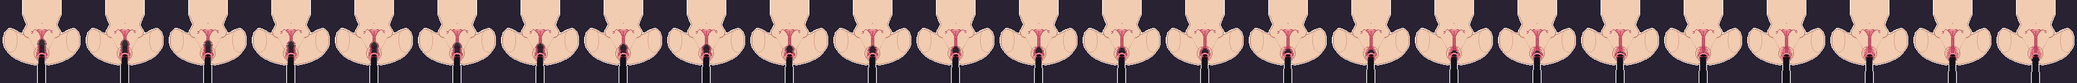
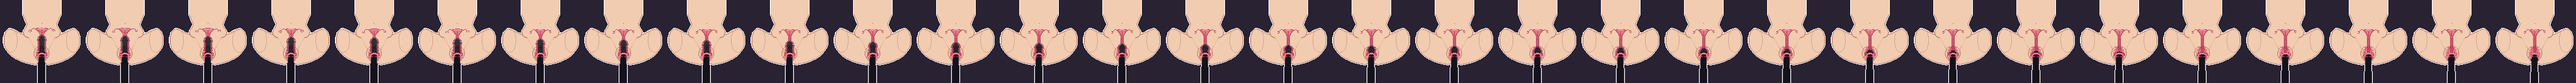
test_bodyM 插入：頂到子宮頸再往裡推 6 格，子宮被頂上去壓扁變形（頸變短變寬、漏斗變矮變寬）；插入圖片條延到龜頭頂 54；sw CACHE v563
Claude-Session: https://claude.ai/code/session_01FDQv7dynifChN3xttDZyvc

diff --git a/web/content/test_bodyM_rub.js b/web/content/test_bodyM_rub.js
@@ -14,7 +14,7 @@ const CONTACT_BELOW = 95.5;           // 龜頭頂高於這列＝碰到陰唇
 const RUB_DIST = 8;                   // 碰著陰唇時累積移動幾格算一下摩擦（不用換方向、不用離開；小幅度來回也算）
 const RUBS_TO_OPEN = 4;               // 摩擦幾下陰唇打開
 const PEN_HALF_W = 7;                 // 按得到陰莖的半寬（128 格）
-const INS0 = 60, INS1 = 84;           // 插入圖片條：龜頭頂 60（頂到子宮頸）～84（剛進肉穴口）
+const INS0 = 54, INS1 = 84;           // 插入圖片條：龜頭頂 54（頂到子宮頸再往裡推 6 格，子宮被壓扁）～84（剛進肉穴口）
 const AT_HOLE = 85;                   // 打開後龜頭拉到這列以下＝頂在肉穴口（對準了），往上推才插進去
 const OPEN_STEP_MS = 110;             // 打開過渡：每一格停多久（閉合 → 打開一點 → 打開大半 → 全開）
 
@@ -125,7 +125,7 @@ section.querySelector("#rub-reset").addEventListener("click", () => {
   draw();
 });
 
-Promise.all(["rub_closed", "rub_open_a35", "rub_open_a70", "rub_open", "rub_insert"].map((n) => load(`/test_bodyM/${n}.png?v=6`)))
+Promise.all(["rub_closed", "rub_open_a35", "rub_open_a70", "rub_open", "rub_insert"].map((n) => load(`/test_bodyM/${n}.png?v=7`)))
   .then(([closed, a35, a70, open, insert]) => { sheets = { closed, a35, a70, open, insert }; draw(); })
   .catch((e) => { info.textContent = e.message; console.error(e); });
 

diff --git a/web/sw.js b/web/sw.js
@@ -1,7 +1,7 @@
 // 網路優先、離線才退回快取;/api/ 不攔(存檔永遠即時)。
 // 重點:向伺服器要「完整回應」(no-store 的新 Request,不帶條件標頭),
 // 避免拿到空的 304 就丟給頁面 → 造成 app.js/模組載入到空內容而整個炸掉。
-const CACHE = "yorozuya-v562";
+const CACHE = "yorozuya-v563";
 const VISIT = "yoro-visit-pics";
 
 self.addEventListener("install", () => self.skipWaiting());

diff --git a/web/test_bodyM/index.html b/web/test_bodyM/index.html
@@ -137,6 +137,6 @@
 <script src="/content/room_doll.js?v=20"></script>
 <script type="module" src="/content/test_bodyM.js?v=7"></script>
 <script type="module" src="/content/test_bodyM_peek.js?v=9"></script>
-<script type="module" src="/content/test_bodyM_rub.js?v=7"></script>
+<script type="module" src="/content/test_bodyM_rub.js?v=8"></script>
 </body>
 </html>

diff --git a/tools/droom_groin/trace128.py b/tools/droom_groin/trace128.py
@@ -619,8 +619,10 @@ def xray_section(im):
     WALL, CAV, RIM, OVA = (236, 112, 140), (196, 52, 86), (172, 52, 82), (246, 176, 186)
     CX = MIDX + .5
     # ---- 子宮（漏斗）----
-    F_TOP, F_BOT, F_W, NECK_W = 47.0, 56.0, 8.2, 2.4          # 子宮底、漏斗底、上寬、頸寬
-    CERV_BOT = 60.0                                          # 子宮頸伸到陰道頂
+    # 龜頭頂到子宮頸後再往裡推：子宮被往裡頂、壓扁變形（子宮頸跟著龜頭往裡、變短變寬；漏斗變矮、兩邊鼓；子宮底只退一點）
+    push = max(0.0, 60.0 - PEN_TIP) if (INSERT > .05 and PENIS in PEN_COLORS) else 0.0
+    F_TOP, F_BOT, F_W, NECK_W = 47.0 - .35 * push, 56.0 - .85 * push, 8.2 + .4 * push, 2.4 + .3 * push   # 子宮底、漏斗底、上寬、頸寬
+    CERV_BOT = 60.0 - push                                   # 子宮頸伸到陰道頂（被龜頭頂著走）
     def uw(y):
         if y < F_TOP: return 0
         if y <= F_BOT:
@@ -642,7 +644,7 @@ def xray_section(im):
     for (x, y) in pixel_perfect(stroke([(MIDX, F_TOP + 1.5), (MIDX, CERV_BOT)])): blend(x, y, CAV, .9)   # 頸管
     for d in (-1, 1):                                          # 子宮腔：倒三角的兩邊
         for (x, y) in pixel_perfect(stroke([(CX + d * (F_W - 3), F_TOP + 1), (CX + d * .4, F_BOT - .5)])): blend(x, y, CAV, .8)
-    for d, oy in ((-1, 50.0), (1, 49.0)):                     # 輸卵管＋卵巢
+    for d, oy in ((-1, 50.0 - .35 * push), (1, 49.0 - .35 * push)):  # 輸卵管＋卵巢（跟著子宮被頂上去）
         tube = [(CX + d * (F_W - .5), F_TOP - .2), (CX + d * (F_W + 3), F_TOP - 1.6), (CX + d * (F_W + 6), F_TOP - .2), (CX + d * (F_W + 7.2), oy - 1.2)]
         for (x, y) in pixel_perfect(stroke(cr(tube))): blend(x, y, RIM, .8)
         ox = CX + d * (F_W + 7.4)

diff --git a/tools/droom_groin/gen_rub_sheets.py b/tools/droom_groin/gen_rub_sheets.py
@@ -11,7 +11,7 @@ from PIL import Image
 HERE = os.path.dirname(os.path.abspath(__file__))
 OUT = sys.argv[1] if len(sys.argv) > 1 else os.path.join(HERE, '..', '..', 'web', 'test_bodyM')
 TIP0, TIP1 = 76, 106
-INS0, INS1 = 60, 84                                       # 插入：龜頭頂 60（頂到子宮頸）～84（剛進肉穴口）
+INS0, INS1 = 54, 84                                       # 插入：龜頭頂 54（頂到子宮頸再往裡推 6 格，子宮被壓扁）～84（剛進肉穴口）
 tips = list(range(TIP0, TIP1 + 1))
 with tempfile.TemporaryDirectory() as td:
     for mode, name, amt in ((5, 'rub_closed.png', 1), (6, 'rub_open.png', 1), (6, 'rub_open_a35.png', .35), (6, 'rub_open_a70.png', .7), (8, 'rub_insert.png', 1)):

diff --git a/tools/droom_groin/README.md b/tools/droom_groin/README.md
@@ -65,3 +65,4 @@ W=220 H=230 F=380 DIST=.40 EYE=.22 PITCH=12 CY=95 UP=3 OUT=out.png node groin_cl
 - 陰道剖面＝左右兩道陰道壁（內緣一節一節皺褶）：沒插兩壁貼著＝一條縫；插著兩壁被陰莖撐開、陰莖在中間，靠陰道口那段往外張接到打開的陰唇。陰道口＝斜著看的一圈肉環套在陰莖上（使用者紫線）：前半圈往上拱的弧跨過陰莖、兩端繞到兩側往下。
 - 互動插入（`rub_insert.png`，龜頭頂 60～84）：頂在肉穴口不透視，龜頭進去後才換透視。打開後龜頭拉到肉穴口（龜頭頂 ≥85＝對準）再往上推才插進去，最深到子宮頸（60）；沒對準只疊在陰唇上（最高 76）；插著往下拉出肉穴口回到疊著。
 - 插進去後陰道被撐開：小陰唇翻得更開、外陰唇的圓弧往外撐大（`rub_open` 的 SP）；頂在肉穴口還沒進去時照原本打開的樣子。
+- 頂到子宮頸後再往裡推（龜頭頂 60→54）：子宮被往裡頂、壓扁變形——子宮頸跟著龜頭往裡、變短變寬，漏斗變矮兩邊鼓，子宮底只退一點，輸卵管卵巢跟著移（`xray_section` 的 push）。
